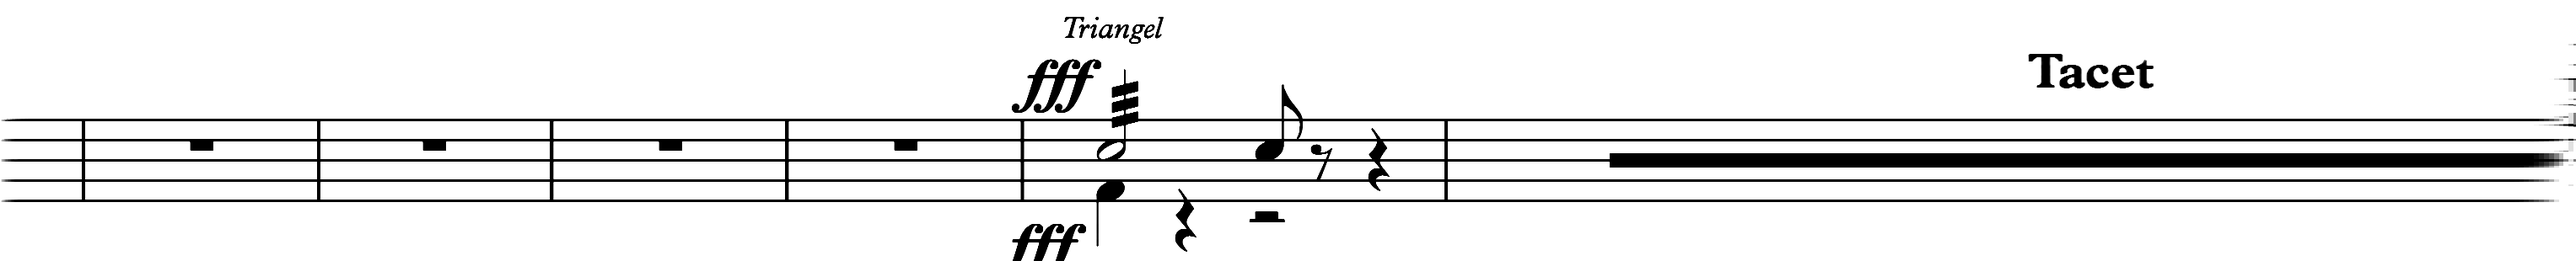
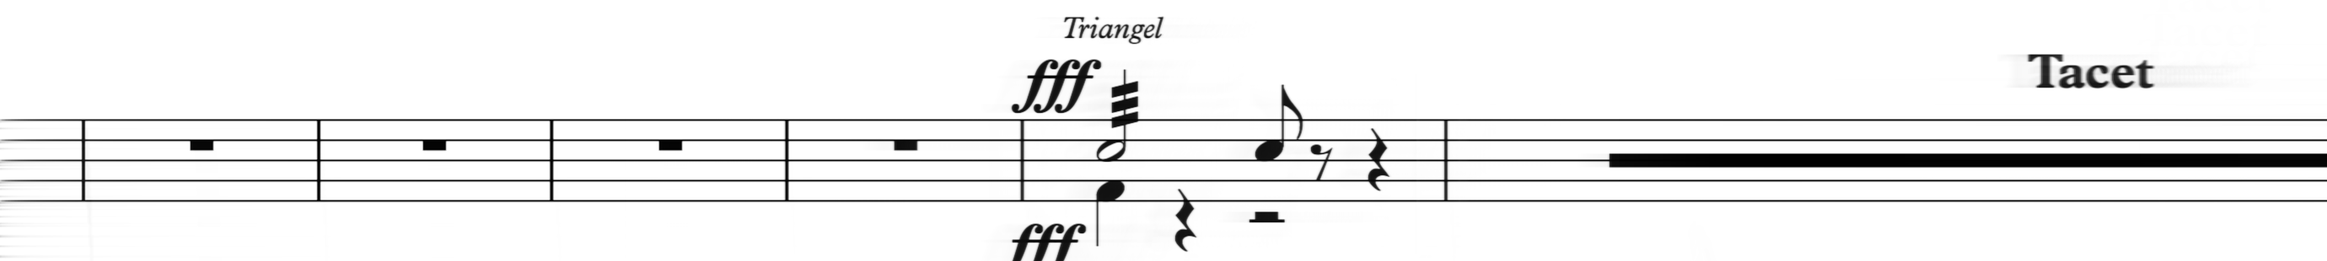
bruckner7: 악보 띠를 안티에일리어싱 유지 방식으로 다시 복원

diff --git a/bruckner7/index.html b/bruckner7/index.html
@@ -118,7 +118,7 @@
 <div id="err"></div>
 
 <script>
-var D = {"tab":[[0.0,763.9],[0.05,763.9],[0.1,763.9],[0.15,763.9],[0.2,763.9],[0.25,763.9],[0.3,763.9],[0.35,763.9],[0.4,763.9],[0.45,763.9],[0.5,763.9],[0.55,763.9],[0.6,763.9],[0.65,763.9],[0.7,763.9],[0.75,763.9],[0.8,763.9],[0.85,763.9],[0.9,763.9],[0.95,763.9],[1.0,763.9],[1.05,763.9],[1.1,763.9],[1.15,763.9],[1.2,763.9],[1.25,763.9],[1.3,763.9],[1.35,763.9],[1.4,763.9],[1.45,763.9],[1.5,763.9],[1.55,763.9],[1.6,763.9],[1.65,763.9],[1.7,763.9],[1.75,763.9],[1.8,763.9],[1.85,763.9],[1.9,763.9],[1.95,763.9],[2.0,763.9],[2.05,764.1],[2.1,764.6],[2.15,765.3],[2.2,766.4],[2.25,767.6],[2.3,769.1],[2.35,770.8],[2.4,772.6],[2.45,774.6],[2.5,776.7],[2.55,778.8],[2.6,781.0],[2.65,783.3],[2.7,785.6],[2.75,787.8],[2.8,790.0],[2.85,792.2],[2.9,794.2],[2.95,796.1],[3.0,797.9],[3.05,799.6],[3.1,801.3],[3.15,803.0],[3.2,804.7],[3.25,806.4],[3.3,808.1],[3.35,809.8],[3.4,811.5],[3.45,813.2],[3.5,814.9],[3.55,816.6],[3.6,818.3],[3.65,820.0],[3.7,821.7],[3.75,823.4],[3.8,825.1],[3.85,826.8],[3.9,828.5],[3.95,830.2],[4.0,831.9],[4.05,833.6],[4.1,835.3],[4.15,837.0],[4.2,838.7],[4.25,840.4],[4.3,842.1],[4.35,843.8],[4.4,845.5],[4.45,847.2],[4.5,848.9],[4.55,850.6],[4.6,852.3],[4.65,854.0],[4.7,855.7],[4.75,857.4],[4.8,859.1],[4.85,860.8],[4.9,862.5],[4.95,864.2],[5.0,865.9],[5.05,867.6],[5.1,869.3],[5.15,871.0],[5.2,872.7],[5.25,874.4],[5.3,876.1],[5.35,877.8],[5.4,879.5],[5.45,881.2],[5.5,882.9],[5.55,884.6],[5.6,886.3],[5.65,888.0],[5.7,889.7],[5.75,891.4],[5.8,893.1],[5.85,894.8],[5.9,896.5],[5.95,898.2],[6.0,899.9],[6.05,901.6],[6.1,903.3],[6.15,905.0],[6.2,906.7],[6.25,908.4],[6.3,910.1],[6.35,911.8],[6.4,913.5],[6.45,915.2],[6.5,916.9],[6.55,918.6],[6.6,920.3],[6.65,922.0],[6.7,923.7],[6.75,925.4],[6.8,927.1],[6.85,928.8],[6.9,930.5],[6.95,932.2],[7.0,933.9],[7.05,935.6],[7.1,937.3],[7.15,939.1],[7.2,940.8],[7.25,942.5],[7.3,944.2],[7.35,946.0],[7.4,947.7],[7.45,949.5],[7.5,951.2],[7.55,952.9],[7.6,954.6],[7.65,956.3],[7.7,958.0],[7.75,959.7],[7.8,961.4],[7.85,963.0],[7.9,964.7],[7.95,966.3],[8.0,967.9],[8.05,969.5],[8.1,971.1],[8.15,972.6],[8.2,974.2],[8.25,975.7],[8.3,977.2],[8.35,978.7],[8.4,980.2],[8.45,981.7],[8.5,983.2],[8.55,984.7],[8.6,986.2],[8.65,987.6],[8.7,989.1],[8.75,990.6],[8.8,992.0],[8.85,993.5],[8.9,995.0],[8.95,996.4],[9.0,997.9],[9.05,999.4],[9.1,1000.9],[9.15,1002.3],[9.2,1003.8],[9.25,1005.2],[9.3,1006.7],[9.35,1008.1],[9.4,1009.6],[9.45,1011.0],[9.5,1012.5],[9.55,1013.9],[9.6,1015.4],[9.65,1016.8],[9.7,1018.2],[9.75,1019.7],[9.8,1021.1],[9.85,1022.6],[9.9,1024.0],[9.95,1025.5],[10.0,1026.9],[10.05,1028.4],[10.1,1029.8],[10.15,1031.3],[10.2,1032.7],[10.25,1034.2],[10.3,1035.6],[10.35,1037.1],[10.4,1038.5],[10.45,1040.0],[10.5,1041.4],[10.55,1042.9],[10.6,1044.3],[10.65,1045.8],[10.7,1047.2],[10.75,1048.7],[10.8,1050.1],[10.85,1051.6],[10.9,1053.0],[10.95,1054.5],[11.0,1055.9],[11.05,1057.4],[11.1,1058.8],[11.15,1060.3],[11.2,1061.8],[11.25,1063.3],[11.3,1064.8],[11.35,1066.3],[11.4,1067.8],[11.45,1069.3],[11.5,1070.8],[11.55,1072.2],[11.6,1073.7],[11.65,1075.2],[11.7,1076.6],[11.75,1078.0],[11.8,1079.5],[11.85,1080.9],[11.9,1082.2],[11.95,1083.6],[12.0,1084.9],[12.05,1086.2],[12.1,1087.5],[12.15,1088.8],[12.2,1090.0],[12.25,1091.2],[12.3,1092.4],[12.35,1093.6],[12.4,1094.8],[12.45,1096.0],[12.5,1097.2],[12.55,1098.4],[12.6,1099.5],[12.65,1100.7],[12.7,1101.9],[12.75,1103.0],[12.8,1104.2],[12.85,1105.4],[12.9,1106.5],[12.95,1107.7],[13.0,1108.9],[13.05,1110.1],[13.1,1111.3],[13.15,1112.5],[13.2,1113.7],[13.25,1114.8],[13.3,1116.0],[13.35,1117.2],[13.4,1118.4],[13.45,1119.6],[13.5,1120.7],[13.55,1121.9],[13.6,1123.1],[13.65,1124.3],[13.7,1125.5],[13.75,1126.7],[13.8,1127.9],[13.85,1129.2],[13.9,1130.4],[13.95,1131.7],[14.0,1132.9],[14.05,1134.2],[14.1,1135.5],[14.15,1136.8],[14.2,1138.1],[14.25,1139.4],[14.3,1140.7],[14.35,1142.0],[14.4,1143.3],[14.45,1144.6],[14.5,1146.0],[14.55,1147.3],[14.6,1148.7],[14.65,1150.1],[14.7,1151.4],[14.75,1152.8],[14.8,1154.2],[14.85,1155.6],[14.9,1157.0],[14.95,1158.5],[15.0,1159.9],[15.05,1161.4],[15.1,1162.8],[15.15,1164.2],[15.2,1165.6],[15.25,1167.0],[15.3,1168.5],[15.35,1169.9],[15.4,1171.3],[15.45,1172.8],[15.5,1174.3],[15.55,1175.8],[15.6,1177.3],[15.65,1178.9],[15.7,1180.5],[15.75,1182.1],[15.8,1183.8],[15.85,1185.5],[15.9,1187.2],[15.95,1189.0],[16.0,1190.9],[16.05,1192.8],[16.1,1194.7],[16.15,1196.6],[16.2,1198.5],[16.25,1200.5],[16.3,1202.5],[16.35,1204.5],[16.4,1206.6],[16.45,1208.7],[16.5,1211.0],[16.55,1213.3],[16.6,1215.7],[16.65,1218.3],[16.7,1220.9],[16.75,1223.7],[16.8,1226.6],[16.85,1229.7],[16.9,1232.9],[16.95,1236.3],[17.0,1239.9],[17.05,1244.2],[17.1,1249.6],[17.15,1255.8],[17.2,1262.8],[17.25,1270.3],[17.3,1278.2],[17.35,1286.1],[17.4,1294.1],[17.45,1301.8],[17.5,1309.1],[17.55,1315.8],[17.6,1321.6],[17.65,1326.5],[17.7,1330.3],[17.75,1333.8],[17.8,1337.0],[17.85,1340.1],[17.9,1343.0],[17.95,1345.8],[18.0,1348.4],[18.05,1351.0],[18.1,1353.4],[18.15,1355.7],[18.2,1357.9],[18.25,1360.0],[18.3,1362.1],[18.35,1364.1],[18.4,1366.0],[18.45,1368.0],[18.5,1369.9],[18.55,1371.7],[18.6,1373.6],[18.65,1375.5],[18.7,1377.4],[18.75,1379.4],[18.8,1381.3],[18.85,1383.4],[18.9,1385.5],[18.95,1387.7],[19.0,1389.9],[19.05,1392.2],[19.1,1394.5],[19.15,1396.8],[19.2,1399.1],[19.25,1401.4],[19.3,1403.7],[19.35,1406.0],[19.4,1408.3],[19.45,1410.6],[19.5,1412.9],[19.55,1415.2],[19.6,1417.5],[19.65,1419.8],[19.7,1422.1],[19.75,1424.4],[19.8,1426.7],[19.85,1429.0],[19.9,1431.3],[19.95,1433.6],[20.0,1435.9],[20.05,1438.2],[20.1,1440.5],[20.15,1442.7],[20.2,1445.0],[20.25,1447.2],[20.3,1449.5],[20.35,1451.7],[20.4,1454.0],[20.45,1456.2],[20.5,1458.5],[20.55,1460.7],[20.6,1463.0],[20.65,1465.3],[20.7,1467.6],[20.75,1469.9],[20.8,1472.2],[20.85,1474.6],[20.9,1477.0],[20.95,1479.4],[21.0,1481.9],[21.05,1484.4],[21.1,1486.9],[21.15,1489.4],[21.2,1491.9],[21.25,1494.4],[21.3,1497.0],[21.35,1499.6],[21.4,1502.2],[21.45,1504.8],[21.5,1507.4],[21.55,1510.1],[21.6,1512.8],[21.65,1515.5],[21.7,1518.3],[21.75,1521.1],[21.8,1524.0],[21.85,1526.9],[21.9,1529.9],[21.95,1532.9],[22.0,1535.9],[22.05,1539.1],[22.1,1542.3],[22.15,1545.7],[22.2,1549.2],[22.25,1552.7],[22.3,1556.3],[22.35,1560.0],[22.4,1563.7],[22.45,1567.4],[22.5,1571.2],[22.55,1575.0],[22.6,1578.8],[22.65,1582.6],[22.7,1586.4],[22.75,1590.1],[22.8,1593.8],[22.85,1597.4],[22.9,1601.0],[22.95,1604.5],[23.0,1607.9],[23.05,1611.3],[23.1,1614.6],[23.15,1617.9],[23.2,1621.3],[23.25,1624.6],[23.3,1627.8],[23.35,1631.1],[23.4,1634.4],[23.45,1637.6],[23.5,1640.8],[23.55,1643.9],[23.6,1647.1],[23.65,1650.2],[23.7,1653.3],[23.75,1656.3],[23.8,1659.3],[23.85,1662.3],[23.9,1665.2],[23.95,1668.1],[24.0,1670.9],[24.05,1673.7],[24.1,1676.6],[24.15,1679.4],[24.2,1682.3],[24.25,1685.2],[24.3,1688.0],[24.35,1690.8],[24.4,1693.6],[24.45,1696.3],[24.5,1699.0],[24.55,1701.7],[24.6,1704.3],[24.65,1706.8],[24.7,1709.3],[24.75,1711.6],[24.8,1713.9],[24.85,1716.1],[24.9,1718.1],[24.95,1720.1],[25.0,1721.9],[25.05,1723.7],[25.1,1725.5],[25.15,1727.2],[25.2,1729.0],[25.25,1730.7],[25.3,1732.4],[25.35,1734.1],[25.4,1735.7],[25.45,1737.3],[25.5,1738.8],[25.55,1740.2],[25.6,1741.6],[25.65,1742.9],[25.7,1744.1],[25.75,1745.2],[25.8,1746.2],[25.85,1747.0],[25.9,1747.8],[25.95,1748.4],[26.0,1748.9],[26.05,1749.3],[26.1,1749.7],[26.15,1750.0],[26.2,1750.3],[26.25,1750.6],[26.3,1750.9],[26.35,1751.1],[26.4,1751.3],[26.45,1751.5],[26.5,1751.7],[26.55,1751.9],[26.6,1752.1],[26.65,1752.3],[26.7,1752.5],[26.75,1752.7],[26.8,1752.9],[26.85,1753.1],[26.9,1753.4],[26.95,1753.6],[27.0,1753.9]],"notes":[{"x":1317.0,"t":17.56,"y":255}],"end":26.0,"w":3055,"roll":{"from":15.2,"to":17.32,"per":30,"max":6}};
+var D = {"tab":[[0.0,763.9],[0.05,763.9],[0.1,763.9],[0.15,763.9],[0.2,763.9],[0.25,763.9],[0.3,763.9],[0.35,763.9],[0.4,763.9],[0.45,763.9],[0.5,763.9],[0.55,763.9],[0.6,763.9],[0.65,763.9],[0.7,763.9],[0.75,763.9],[0.8,763.9],[0.85,763.9],[0.9,763.9],[0.95,763.9],[1.0,763.9],[1.05,763.9],[1.1,763.9],[1.15,763.9],[1.2,763.9],[1.25,763.9],[1.3,763.9],[1.35,763.9],[1.4,763.9],[1.45,763.9],[1.5,763.9],[1.55,763.9],[1.6,763.9],[1.65,763.9],[1.7,763.9],[1.75,763.9],[1.8,763.9],[1.85,763.9],[1.9,763.9],[1.95,763.9],[2.0,763.9],[2.05,764.1],[2.1,764.6],[2.15,765.3],[2.2,766.4],[2.25,767.6],[2.3,769.1],[2.35,770.8],[2.4,772.6],[2.45,774.6],[2.5,776.7],[2.55,778.8],[2.6,781.0],[2.65,783.3],[2.7,785.6],[2.75,787.8],[2.8,790.0],[2.85,792.2],[2.9,794.2],[2.95,796.1],[3.0,797.9],[3.05,799.6],[3.1,801.3],[3.15,803.0],[3.2,804.7],[3.25,806.4],[3.3,808.1],[3.35,809.8],[3.4,811.5],[3.45,813.2],[3.5,814.9],[3.55,816.6],[3.6,818.3],[3.65,820.0],[3.7,821.7],[3.75,823.4],[3.8,825.1],[3.85,826.8],[3.9,828.5],[3.95,830.2],[4.0,831.9],[4.05,833.6],[4.1,835.3],[4.15,837.0],[4.2,838.7],[4.25,840.4],[4.3,842.1],[4.35,843.8],[4.4,845.5],[4.45,847.2],[4.5,848.9],[4.55,850.6],[4.6,852.3],[4.65,854.0],[4.7,855.7],[4.75,857.4],[4.8,859.1],[4.85,860.8],[4.9,862.5],[4.95,864.2],[5.0,865.9],[5.05,867.6],[5.1,869.3],[5.15,871.0],[5.2,872.7],[5.25,874.4],[5.3,876.1],[5.35,877.8],[5.4,879.5],[5.45,881.2],[5.5,882.9],[5.55,884.6],[5.6,886.3],[5.65,888.0],[5.7,889.7],[5.75,891.4],[5.8,893.1],[5.85,894.8],[5.9,896.5],[5.95,898.2],[6.0,899.9],[6.05,901.6],[6.1,903.3],[6.15,905.0],[6.2,906.7],[6.25,908.4],[6.3,910.1],[6.35,911.8],[6.4,913.5],[6.45,915.2],[6.5,916.9],[6.55,918.6],[6.6,920.3],[6.65,922.0],[6.7,923.7],[6.75,925.4],[6.8,927.1],[6.85,928.8],[6.9,930.5],[6.95,932.2],[7.0,933.9],[7.05,935.6],[7.1,937.3],[7.15,939.1],[7.2,940.8],[7.25,942.5],[7.3,944.2],[7.35,946.0],[7.4,947.7],[7.45,949.5],[7.5,951.2],[7.55,952.9],[7.6,954.6],[7.65,956.3],[7.7,958.0],[7.75,959.7],[7.8,961.4],[7.85,963.0],[7.9,964.7],[7.95,966.3],[8.0,967.9],[8.05,969.5],[8.1,971.1],[8.15,972.6],[8.2,974.2],[8.25,975.7],[8.3,977.2],[8.35,978.7],[8.4,980.2],[8.45,981.7],[8.5,983.2],[8.55,984.7],[8.6,986.2],[8.65,987.6],[8.7,989.1],[8.75,990.6],[8.8,992.0],[8.85,993.5],[8.9,995.0],[8.95,996.4],[9.0,997.9],[9.05,999.4],[9.1,1000.9],[9.15,1002.3],[9.2,1003.8],[9.25,1005.2],[9.3,1006.7],[9.35,1008.1],[9.4,1009.6],[9.45,1011.0],[9.5,1012.5],[9.55,1013.9],[9.6,1015.4],[9.65,1016.8],[9.7,1018.2],[9.75,1019.7],[9.8,1021.1],[9.85,1022.6],[9.9,1024.0],[9.95,1025.5],[10.0,1026.9],[10.05,1028.4],[10.1,1029.8],[10.15,1031.3],[10.2,1032.7],[10.25,1034.2],[10.3,1035.6],[10.35,1037.1],[10.4,1038.5],[10.45,1040.0],[10.5,1041.4],[10.55,1042.9],[10.6,1044.3],[10.65,1045.8],[10.7,1047.2],[10.75,1048.7],[10.8,1050.1],[10.85,1051.6],[10.9,1053.0],[10.95,1054.5],[11.0,1055.9],[11.05,1057.4],[11.1,1058.8],[11.15,1060.3],[11.2,1061.8],[11.25,1063.3],[11.3,1064.8],[11.35,1066.3],[11.4,1067.8],[11.45,1069.3],[11.5,1070.8],[11.55,1072.2],[11.6,1073.7],[11.65,1075.2],[11.7,1076.6],[11.75,1078.0],[11.8,1079.5],[11.85,1080.9],[11.9,1082.2],[11.95,1083.6],[12.0,1084.9],[12.05,1086.2],[12.1,1087.5],[12.15,1088.8],[12.2,1090.0],[12.25,1091.2],[12.3,1092.4],[12.35,1093.6],[12.4,1094.8],[12.45,1096.0],[12.5,1097.2],[12.55,1098.4],[12.6,1099.5],[12.65,1100.7],[12.7,1101.9],[12.75,1103.0],[12.8,1104.2],[12.85,1105.4],[12.9,1106.5],[12.95,1107.7],[13.0,1108.9],[13.05,1110.1],[13.1,1111.3],[13.15,1112.5],[13.2,1113.7],[13.25,1114.8],[13.3,1116.0],[13.35,1117.2],[13.4,1118.4],[13.45,1119.6],[13.5,1120.7],[13.55,1121.9],[13.6,1123.1],[13.65,1124.3],[13.7,1125.5],[13.75,1126.7],[13.8,1127.9],[13.85,1129.2],[13.9,1130.4],[13.95,1131.7],[14.0,1132.9],[14.05,1134.2],[14.1,1135.5],[14.15,1136.8],[14.2,1138.1],[14.25,1139.4],[14.3,1140.7],[14.35,1142.0],[14.4,1143.3],[14.45,1144.6],[14.5,1146.0],[14.55,1147.3],[14.6,1148.7],[14.65,1150.1],[14.7,1151.4],[14.75,1152.8],[14.8,1154.2],[14.85,1155.6],[14.9,1157.0],[14.95,1158.5],[15.0,1159.9],[15.05,1161.4],[15.1,1162.8],[15.15,1164.2],[15.2,1165.6],[15.25,1167.0],[15.3,1168.5],[15.35,1169.9],[15.4,1171.3],[15.45,1172.8],[15.5,1174.3],[15.55,1175.8],[15.6,1177.3],[15.65,1178.9],[15.7,1180.5],[15.75,1182.1],[15.8,1183.8],[15.85,1185.5],[15.9,1187.2],[15.95,1189.0],[16.0,1190.9],[16.05,1192.8],[16.1,1194.7],[16.15,1196.6],[16.2,1198.5],[16.25,1200.5],[16.3,1202.5],[16.35,1204.5],[16.4,1206.6],[16.45,1208.7],[16.5,1211.0],[16.55,1213.3],[16.6,1215.7],[16.65,1218.3],[16.7,1220.9],[16.75,1223.7],[16.8,1226.6],[16.85,1229.7],[16.9,1232.9],[16.95,1236.3],[17.0,1239.9],[17.05,1244.2],[17.1,1249.6],[17.15,1255.8],[17.2,1262.8],[17.25,1270.3],[17.3,1278.2],[17.35,1286.1],[17.4,1294.1],[17.45,1301.8],[17.5,1309.1],[17.55,1315.8],[17.6,1321.6],[17.65,1326.5],[17.7,1330.3],[17.75,1333.8],[17.8,1337.0],[17.85,1340.1],[17.9,1343.0],[17.95,1345.8],[18.0,1348.4],[18.05,1351.0],[18.1,1353.4],[18.15,1355.7],[18.2,1357.9],[18.25,1360.0],[18.3,1362.1],[18.35,1364.1],[18.4,1366.0],[18.45,1368.0],[18.5,1369.9],[18.55,1371.7],[18.6,1373.6],[18.65,1375.5],[18.7,1377.4],[18.75,1379.4],[18.8,1381.3],[18.85,1383.4],[18.9,1385.5],[18.95,1387.7],[19.0,1389.9],[19.05,1392.2],[19.1,1394.5],[19.15,1396.8],[19.2,1399.1],[19.25,1401.4],[19.3,1403.7],[19.35,1406.0],[19.4,1408.3],[19.45,1410.6],[19.5,1412.9],[19.55,1415.2],[19.6,1417.5],[19.65,1419.8],[19.7,1422.1],[19.75,1424.4],[19.8,1426.7],[19.85,1429.0],[19.9,1431.3],[19.95,1433.6],[20.0,1435.9],[20.05,1438.2],[20.1,1440.5],[20.15,1442.7],[20.2,1445.0],[20.25,1447.2],[20.3,1449.5],[20.35,1451.7],[20.4,1454.0],[20.45,1456.2],[20.5,1458.5],[20.55,1460.7],[20.6,1463.0],[20.65,1465.3],[20.7,1467.6],[20.75,1469.9],[20.8,1472.2],[20.85,1474.6],[20.9,1477.0],[20.95,1479.4],[21.0,1481.9],[21.05,1484.4],[21.1,1486.9],[21.15,1489.4],[21.2,1491.9],[21.25,1494.4],[21.3,1497.0],[21.35,1499.6],[21.4,1502.2],[21.45,1504.8],[21.5,1507.4],[21.55,1510.1],[21.6,1512.8],[21.65,1515.5],[21.7,1518.3],[21.75,1521.1],[21.8,1524.0],[21.85,1526.9],[21.9,1529.9],[21.95,1532.9],[22.0,1535.9],[22.05,1539.1],[22.1,1542.3],[22.15,1545.7],[22.2,1549.2],[22.25,1552.7],[22.3,1556.3],[22.35,1560.0],[22.4,1563.7],[22.45,1567.4],[22.5,1571.2],[22.55,1575.0],[22.6,1578.8],[22.65,1582.6],[22.7,1586.4],[22.75,1590.1],[22.8,1593.8],[22.85,1597.4],[22.9,1601.0],[22.95,1604.5],[23.0,1607.9],[23.05,1611.3],[23.1,1614.6],[23.15,1617.9],[23.2,1621.3],[23.25,1624.6],[23.3,1627.8],[23.35,1631.1],[23.4,1634.4],[23.45,1637.6],[23.5,1640.8],[23.55,1643.9],[23.6,1647.1],[23.65,1650.2],[23.7,1653.3],[23.75,1656.3],[23.8,1659.3],[23.85,1662.3],[23.9,1665.2],[23.95,1668.1],[24.0,1670.9],[24.05,1673.7],[24.1,1676.6],[24.15,1679.4],[24.2,1682.3],[24.25,1685.2],[24.3,1688.0],[24.35,1690.8],[24.4,1693.6],[24.45,1696.3],[24.5,1699.0],[24.55,1701.7],[24.6,1704.3],[24.65,1706.8],[24.7,1709.3],[24.75,1711.6],[24.8,1713.9],[24.85,1716.1],[24.9,1718.1],[24.95,1720.1],[25.0,1721.9],[25.05,1723.7],[25.1,1725.5],[25.15,1727.2],[25.2,1729.0],[25.25,1730.7],[25.3,1732.4],[25.35,1734.1],[25.4,1735.7],[25.45,1737.3],[25.5,1738.8],[25.55,1740.2],[25.6,1741.6],[25.65,1742.9],[25.7,1744.1],[25.75,1745.2],[25.8,1746.2],[25.85,1747.0],[25.9,1747.8],[25.95,1748.4],[26.0,1748.9],[26.05,1749.3],[26.1,1749.7],[26.15,1750.0],[26.2,1750.3],[26.25,1750.6],[26.3,1750.9],[26.35,1751.1],[26.4,1751.3],[26.45,1751.5],[26.5,1751.7],[26.55,1751.9],[26.6,1752.1],[26.65,1752.3],[26.7,1752.5],[26.75,1752.7],[26.8,1752.9],[26.85,1753.1],[26.9,1753.4],[26.95,1753.6],[27.0,1753.9]],"notes":[{"x":1317.0,"t":17.56,"y":255}],"end":26.0,"w":2760,"roll":{"from":15.2,"to":17.32,"per":30,"max":6}};
 (function(){
 "use strict";
 var SVGNS="http://www.w3.org/2000/svg";
